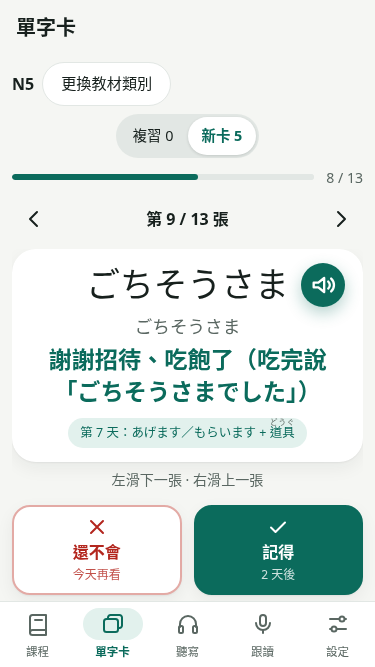
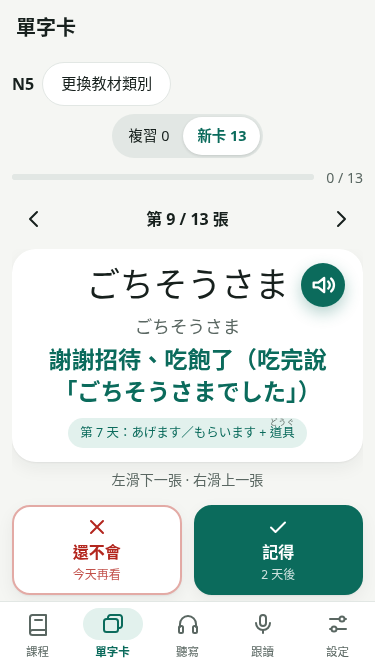
docs: refresh four actual mobile flashcard previews

Changed region(s): [[0.0293, 0.1799, 0.704, 0.2699]]

diff --git a/docs/vocab-illustration-pilot.md b/docs/vocab-illustration-pilot.md
@@ -40,10 +40,14 @@
 
 ## 本機驗證與預覽
 
-330 tests／check、正式base build／原bundle通過；兩模式各13詞線上／真正離線、缺圖退化、其他三類無圖長卡與保存回歸完成，實際範圍及前置修正見release-audit T151。真斷網重載後12張圖片逐SHA一致，沒有記憶成效實驗。三張PNG為隔離測試資料的375×667畫面，不納入runtime資產。
+330 tests／check、正式base build／原bundle通過；兩模式各13詞線上／真正離線、缺圖退化、其他三類無圖長卡與保存回歸完成，實際範圍及前置修正見release-audit T151。真斷網重載後12張圖片逐SHA一致，沒有記憶成效實驗。以下四張PNG以程式 commit `9e0cbe18fc5fc690055a964cf80b49652db7b5cc` 的正式base建置、獨立Chromium測試資料與375×667 viewport重新擷取，沒有合成或修改畫面，不納入runtime資產。該程式版本的 [CI已通過](https://github.com/frobel0520/nihongo-lab/actions/runs/39618652801)。本次只更新預覽PNG與本文件，未變更程式、教材或資產範圍。
+
+四張均保留完整卡片、播放鈕與底部操作區。揭示後可見評分列；揭示前保留實際「顯示答案」按鈕，沒有圖片或評分列。無圖卡採用長翻譯的「ごちそうさま」，用於確認換行與置中。瀏覽器擷取檢查未發現pageerror或水平溢位；這是版面預覽，不代表新增完整功能驗收。PR維持Draft，等待使用者確認後再交reviewer，不合併或部署。
 
 ![無配圖長答案置中](previews/t151-unmapped-375.png)
 
 ![麵包答案面](previews/t151-bread-375.png)
 
 ![地圖答案面](previews/t151-map-375.png)
+
+![麵包揭示前，圖片尚未出現](previews/t151-bread-front-375.png)
